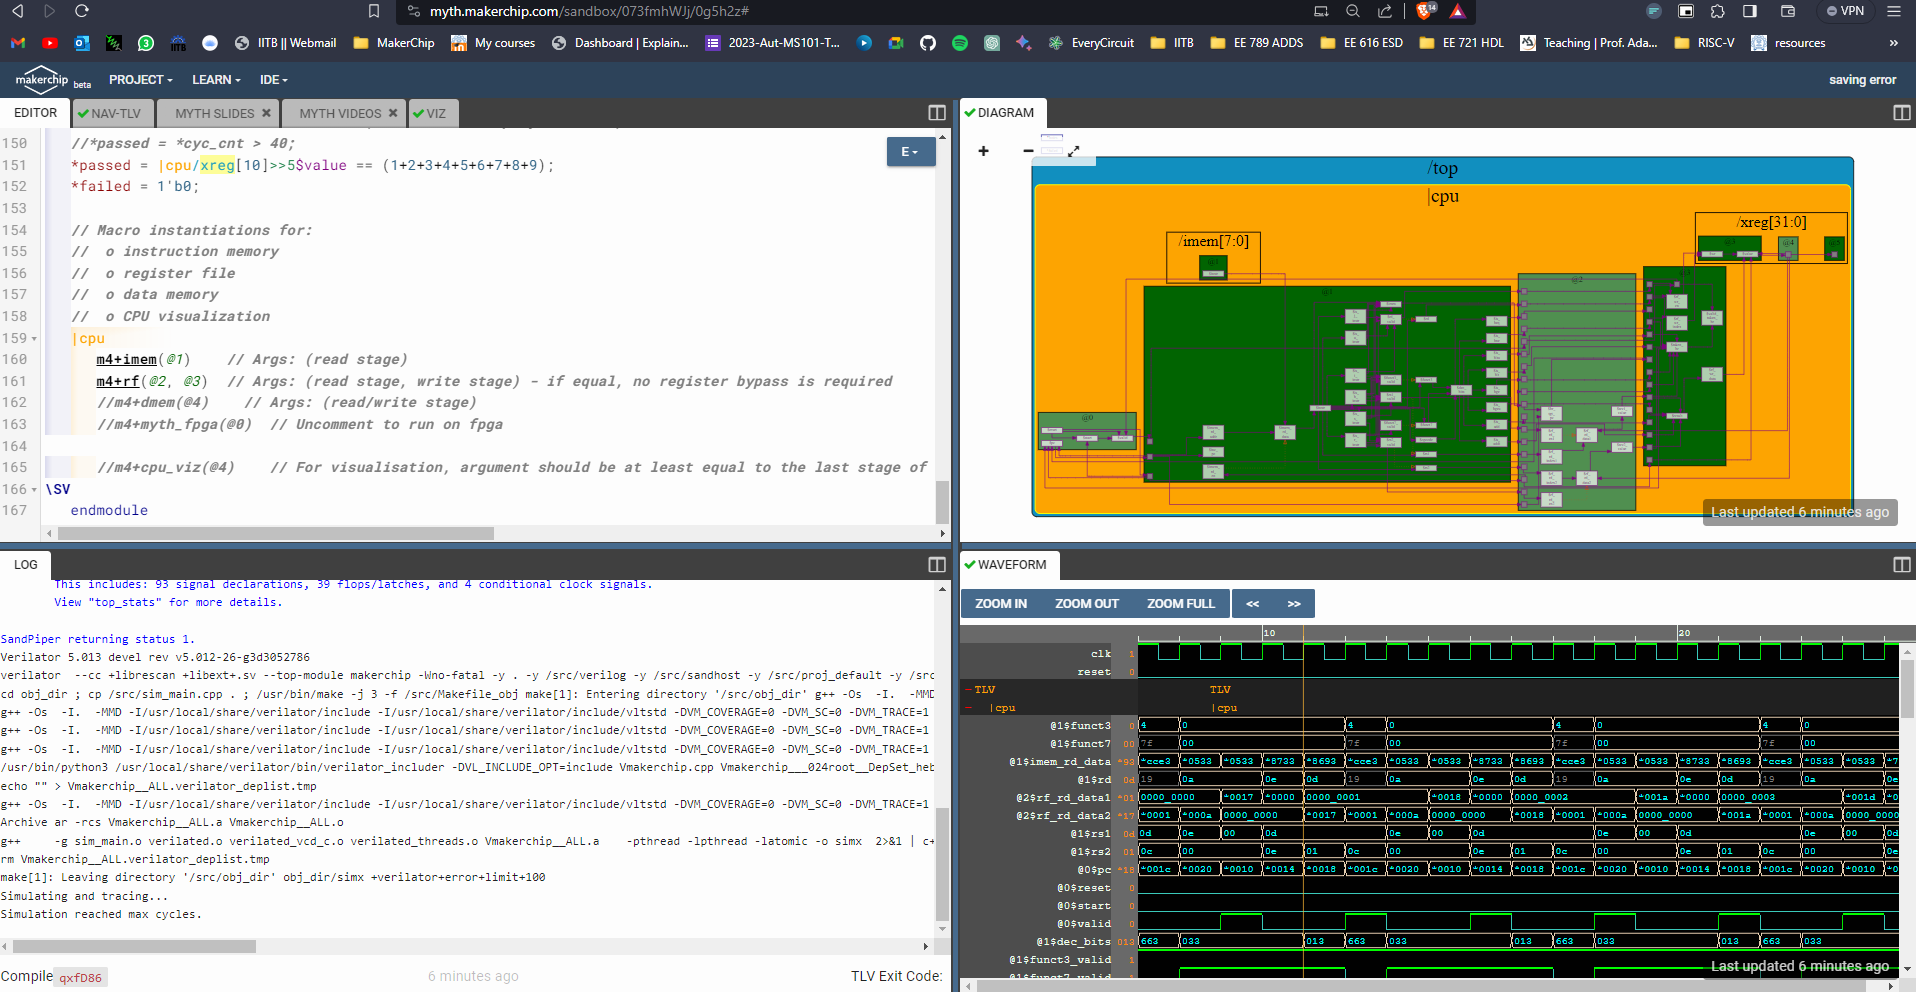
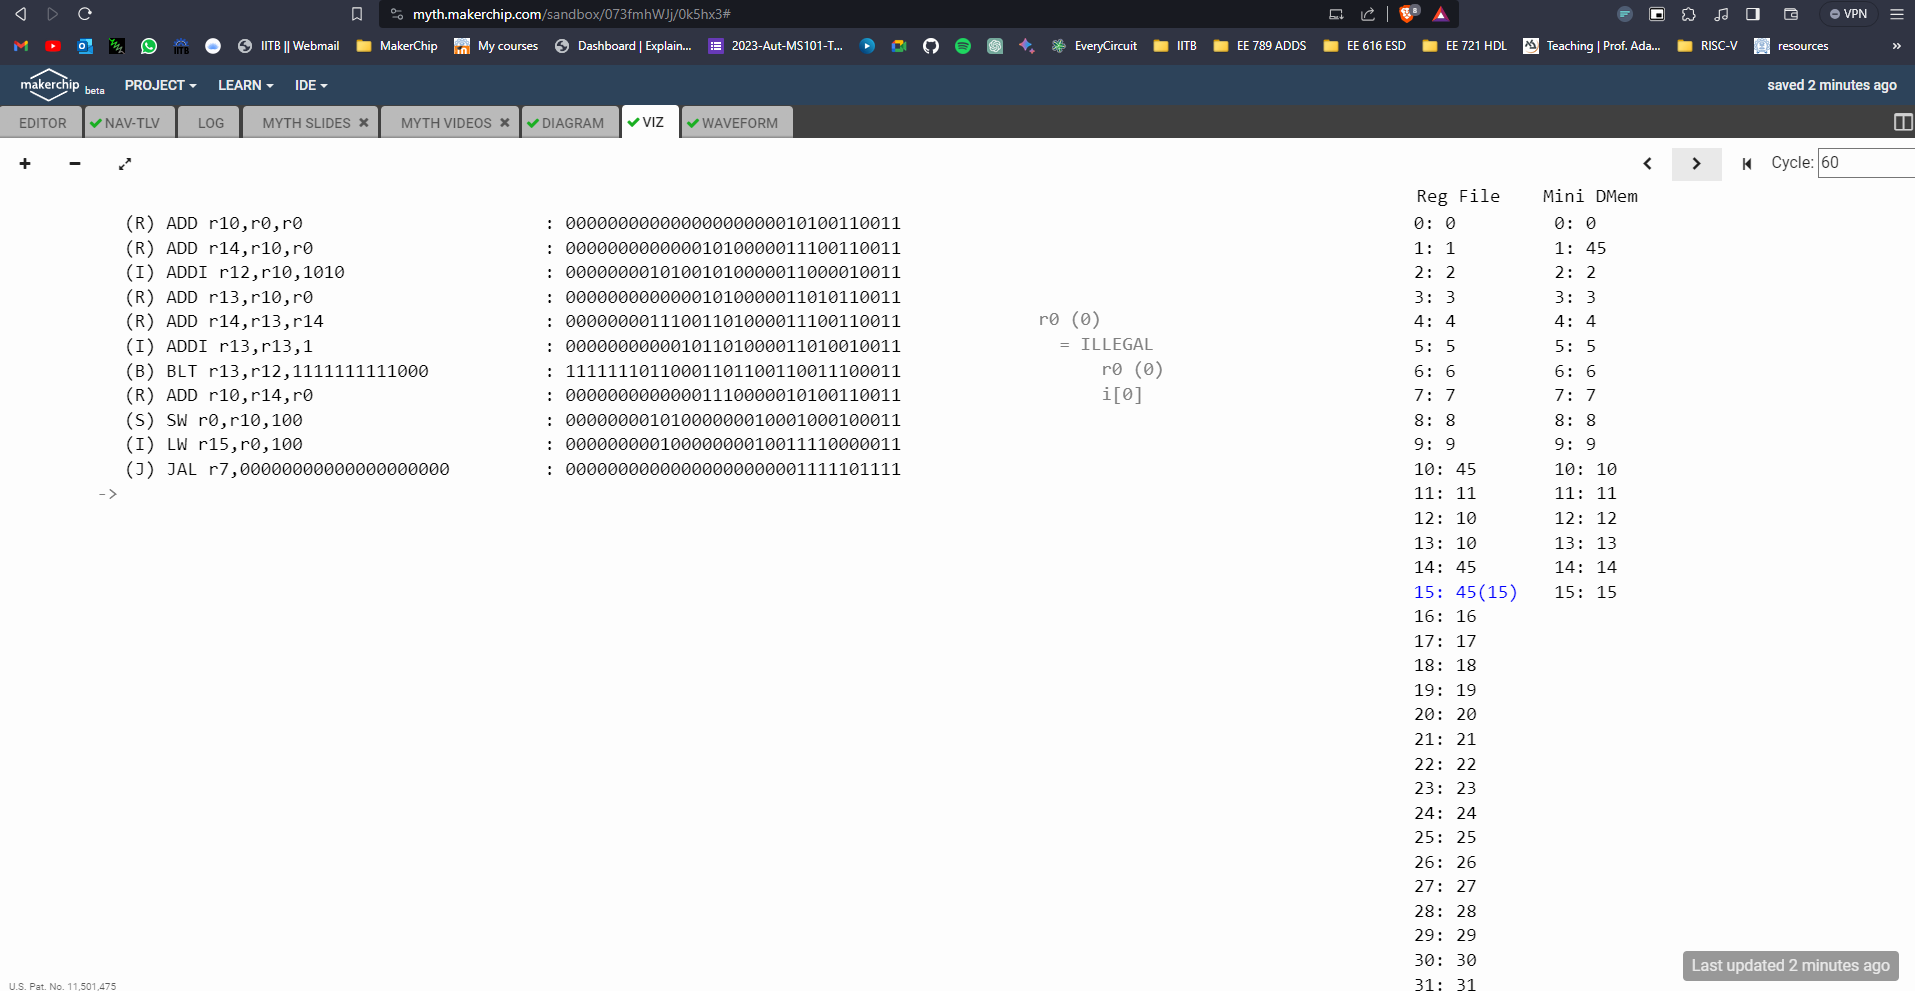
complete CPU

diff --git a/Day3_5/Day-5 Complete Pipelined RISC-V CPU micro-architec d84dd0c4334a4724bfdb940da5cf7195.md b/Day3_5/Day-5 Complete Pipelined RISC-V CPU micro-architec d84dd0c4334a4724bfdb940da5cf7195.md
@@ -1,9 +1,9 @@
 # Day-5 Complete Pipelined RISC-V CPU micro-architecture
 
 Related Course(s): RISC-V Myth (https://www.notion.so/RISC-V-Myth-e52fd09cf2c142c9881dc05a0b7003a2?pvs=21)
-Date Last Edited: September 24, 2023 10:02 PM
+Date Last Edited: September 26, 2023 7:27 PM
 
-# Pipelined CPU
+# Complete RISC-V CPU
 
 ```verilog
 \m4_TLV_version 1d: tl-x.org
@@ -28,6 +28,7 @@ Date Last Edited: September 24, 2023 10:02 PM
    //  r12 (a2): 10
    //  r13 (a3): 1..10
    //  r14 (a4): Sum
+   //  r15 (a5): stored/loaded Sum
    // 
    // External to function:
    m4_asm(ADD, r10, r0, r0)             // Initialize r10 (a0) to 0.
@@ -40,124 +41,205 @@ Date Last Edited: September 24, 2023 10:02 PM
    m4_asm(ADDI, r13, r13, 1)            // Increment intermediate register by 1
    m4_asm(BLT, r13, r12, 1111111111000) // If a3 is less than a2, branch to label named <loop>
    m4_asm(ADD, r10, r14, r0)            // Store final result to register a0 so that it can be read by main program
-   
+   // Store/Load
+   m4_asm(SW, r0, r10, 100)             // Store final result in data memory at address 'b100 (4)
+   m4_asm(LW, r15, r0, 100)             // Load final result into a5
    // Optional:
-   // m4_asm(JAL, r7, 00000000000000000000) // Done. Jump to itself (infinite loop). (Up to 20-bit signed immediate plus implicit 0 bit (unlike JALR) provides byte address; last immediate bit should also be 0)
+   m4_asm(JAL, r7, 00000000000000000000) // Done. Jump to itself (infinite loop). (Up to 20-bit signed immediate plus implicit 0 bit (unlike JALR) provides byte address; last immediate bit should also be 0)
    m4_define_hier(['M4_IMEM'], M4_NUM_INSTRS)
 
    |cpu
       @0
          $reset = *reset;
-         $pc[31:0] = >>1$reset ? 32'd0 : 
-            >>3$taken_br ? >>3$br_tgt_pc :
-            (>>3$pc + 32'd4);
-         $start = (>>1$reset && $reset == 0) ? 1'b1 : 1'b0;
-         $valid = $reset ? 1'b0 : 
-                  $start ? 1'b1 : >>3$valid;
-      
-      @1
-         $inc_pc[31:0] = $pc + 32'd4;
+         $start = !$reset & >>1$reset;
          
-         $imem_rd_en = !>>1$reset ? 1 : 0;
-         $imem_rd_addr[31:0] = $pc[M4_IMEM_INDEX_CNT+1:2];
+         // program counter
+         $pc[31:0] = >>1$reset ? 0 :
+                     >>3$valid_taken_br ? >>3$br_tgt_pc :
+                     >>3$valid_jump     ? >>3$jalr_tgt_pc :
+                     >>3$valid_load     ? >>3$pc + 4 :
+                     >>1$pc + 4;
+         
+         // instruction memory read inputs
+         $imem_rd_en = !$reset;
+         $imem_rd_addr[M4_IMEM_INDEX_CNT-1:0] = $pc[M4_IMEM_INDEX_CNT+1:2];
+         
+      @1
+         // instruction
          $instr[31:0] = $imem_rd_data[31:0];
          
-         //Decoding Instructions IRSBJU
-         
+         // instruction type decode (I, R, S, B, J, U)
          $is_i_instr = $instr[6:2] ==? 5'b0000x ||
                        $instr[6:2] ==? 5'b001x0 ||
-                       $instr[6:2] == 5'b11001;
+                       $instr[6:2] ==  5'b11001;
          
-         $is_r_instr = $instr[6:2] ==? 5'b01x1x ||
-                       $instr[6:2] ==? 5'bxx100;
+         $is_r_instr = $instr[6:2] ==  5'b01011 ||
+                       $instr[6:2] ==? 5'b011x0 ||
+                       $instr[6:2] ==  5'b10100;
          
-         $is_b_instr = $instr[6:2] == 5'b11000;
-         $is_u_instr = $instr[6:2] == 5'b0x101;
-         $is_s_instr = $instr[6:2] == 5'b0100x;
-         $is_j_instr = $instr[6:2] == 5'b11011;
+         $is_s_instr = $instr[6:2] ==? 5'b0100x;
          
-         //Decoding Immediate
-         $imm[31:0] = $is_i_instr ? { {21{$instr[31]}} , $instr[30:20] } :
-                   $is_s_instr ? { {21{$instr[31]}} , $instr[30:25] , $instr[11:8] , $instr[7] } :
-                   $is_b_instr ? { {20{$instr[31]}} , $instr[7] , $instr[30:25] , $instr[11:8] , 1'b0} :
-                   $is_u_instr ? { $instr[31] , $instr[30:20] , $instr[19:12] , 12'b0} : 
-                   $is_j_instr ? { {12{$instr[31]}} , $instr[19:12] , $instr[20] , $instr[30:21] , 1'b0} : 32'b0;
+         $is_b_instr = $instr[6:2] ==  5'b11000;
          
-         //Other fields of Instruction with a when condition
-         $rs2_valid = $is_r_instr || $is_s_instr || $is_b_instr;
-         $rs1_valid = $is_r_instr || $is_i_instr || $is_s_instr || $is_b_instr;
-         $rd_valid = $is_r_instr || $is_i_instr || $is_u_instr || $is_j_instr;
+         $is_j_instr = $instr[6:2] ==  5'b11011;
+         
+         $is_u_instr = $instr[6:2] ==? 5'b0x101;
+         
+         // instruction decode
+         $imm[31:0] = $is_i_instr ? {{21{$instr[31]}}, $instr[30:20]} :
+                      $is_s_instr ? {{21{$instr[31]}}, $instr[30:25], $instr[11:7]} :
+                      $is_b_instr ? {{20{$instr[31]}}, $instr[7], $instr[30:25], $instr[11:8], 1'b0} :
+                      $is_u_instr ? {$instr[31:12], 12'b0} :
+                      $is_j_instr ? {{12{$instr[31]}}, $instr[19:12], $instr[20], $instr[30:25], $instr[24:21], 1'b0} :
+                                    0;
+         
          $funct7_valid = $is_r_instr;
-         $funct3_valid = $is_r_instr || $is_i_instr || $is_s_instr || $is_b_instr;
-         
-         ?$rs2_valid
-            $rs2[4:0] = $instr[24:20];
-         ?$rs1_valid
-            $rs1[4:0] = $instr[19:15];
-         ?$rd_valid
-            $rd[4:0] = $instr[11:7];
-         $opcode[6:0] = $instr[6:0];
          ?$funct7_valid
             $funct7[6:0] = $instr[31:25];
+         
+         $rs2_valid = $is_r_instr || $is_s_instr || $is_b_instr;
+         ?$rs2_valid
+            $rs2[4:0] = $instr[24:20];
+         
+         $rs1_valid = $is_i_instr || $is_r_instr || $is_s_instr || $is_b_instr;
+         ?$rs1_valid
+            $rs1[4:0] = $instr[19:15];
+         
+         $funct3_valid = $is_i_instr || $is_r_instr || $is_s_instr || $is_b_instr;
          ?$funct3_valid
             $funct3[2:0] = $instr[14:12];
-            
-         //decode individual instructions
-         $dec_bits[10:0] = {$funct7[5],$funct3,$opcode};
-         $is_beq = $dec_bits ==? 11'bx_000_1100011;
-         $is_bne = $dec_bits ==? 11'bx_001_1100011;
-         $is_blt = $dec_bits ==? 11'bx_100_1100011;
-         $is_bge = $dec_bits ==? 11'bx_101_1100011;
-         $is_bltu = $dec_bits ==? 11'bx_110_1100011;
-         $is_bgeu = $dec_bits ==? 11'bx_111_1100011;
-         $is_addi = $dec_bits ==? 11'bx_000_0010011;
-         $is_add = $dec_bits ==? 11'b0_000_0110011;
          
-         `BOGUS_USE($is_beq $is_bne $is_blt $is_bge $is_bltu $is_bgeu $is_addi $is_add)
-      @2   
-         //Register File Read
+         $rd_valid = $is_i_instr || $is_r_instr || $is_u_instr || $is_j_instr;
+         ?$rd_valid
+            $rd[4:0] = $instr[11:7];
+         
+         $opcode[6:0] = $instr[6:0];
+         
+         // individual instruction decode
+         $dec_bits[10:0] = {$funct7[5], $funct3, $opcode};
+         
+         $is_lui   = $opcode   ==         7'b0110111;
+         $is_auipc = $opcode   ==         7'b0010111;
+         $is_jal   = $opcode   ==         7'b1101111;
+         $is_jalr  = $dec_bits ==? 11'bx_000_1100111;
+         $is_beq   = $dec_bits ==? 11'bx_000_1100011;
+         $is_bne   = $dec_bits ==? 11'bx_001_1100011;
+         $is_blt   = $dec_bits ==? 11'bx_100_1100011;
+         $is_bge   = $dec_bits ==? 11'bx_101_1100011;
+         $is_bltu  = $dec_bits ==? 11'bx_110_1100011;
+         $is_bgeu  = $dec_bits ==? 11'bx_111_1100011;
+         $is_load  = $opcode   ==         7'b0000011;
+         $is_sb    = $dec_bits ==? 11'bx_000_0100011;
+         $is_sh    = $dec_bits ==? 11'bx_001_0100011;
+         $is_sw    = $dec_bits ==? 11'bx_010_0100011;
+         $is_addi  = $dec_bits ==? 11'bx_000_0010011;
+         $is_slti  = $dec_bits ==? 11'bx_010_0010011;
+         $is_sltiu = $dec_bits ==? 11'bx_011_0010011;
+         $is_xori  = $dec_bits ==? 11'bx_100_0010011;
+         $is_ori   = $dec_bits ==? 11'bx_110_0010011;
+         $is_andi  = $dec_bits ==? 11'bx_111_0010011;
+         $is_slli  = $dec_bits ==  11'b0_001_0010011;
+         $is_srli  = $dec_bits ==  11'b0_101_0010011;
+         $is_srai  = $dec_bits ==  11'b1_101_0010011;
+         $is_add   = $dec_bits ==  11'b0_000_0110011;
+         $is_sub   = $dec_bits ==  11'b1_000_0110011;
+         $is_sll   = $dec_bits ==  11'b0_001_0110011;
+         $is_slt   = $dec_bits ==  11'b0_010_0110011;
+         $is_sltu  = $dec_bits ==  11'b0_011_0110011;
+         $is_xor   = $dec_bits ==  11'b0_100_0110011;
+         $is_srl   = $dec_bits ==  11'b0_101_0110011;
+         $is_sra   = $dec_bits ==  11'b1_101_0110011;
+         $is_or    = $dec_bits ==  11'b0_110_0110011;
+         $is_and   = $dec_bits ==  11'b0_111_0110011;
+         
+      @2
+         // register file read
          $rf_rd_en1 = $rs1_valid;
-         $rf_rd_en2 = $rs2_valid;
          $rf_rd_index1[4:0] = $rs1;
+         $rf_rd_en2 = $rs2_valid;
          $rf_rd_index2[4:0] = $rs2;
+         $src1_value[31:0] = (>>1$rf_wr_en && $rs1 == >>1$rd) ? >>1$result : $rf_rd_data1;
+         $src2_value[31:0] = (>>1$rf_wr_en && $rs2 == >>1$rd) ? >>1$result : $rf_rd_data2;
          
-         $src1_value[31:0] = $rf_rd_data1;
-         $src2_value[31:0] = $rf_rd_data2;
-         $br_tgt_pc[31:0] = $pc + $imm;
-      
+         // branch and jump instructions
+         $taken_br = $is_jal  ? 1'b1 :
+                     $is_beq  ? ($src1_value == $src2_value) :
+                     $is_bne  ? ($src1_value != $src2_value) :
+                     $is_blt  ? ($src1_value <  $src2_value) ^ ($src1_value[31] != $src2_value[31]) :
+                     $is_bge  ? ($src1_value >= $src2_value) ^ ($src1_value[31] != $src2_value[31]) :
+                     $is_bltu ? ($src1_value <  $src2_value) :
+                     $is_bgeu ? ($src1_value >= $src2_value) :
+                                1'b0;
+         $is_jump = $is_jal || $is_jalr;
+         
       @3
-         //ALU operations for ADDI and ADD
-         $result[31:0] = $is_addi ? $src1_value + $imm :
-                         $is_add ? $src1_value + $src2_value :
+         // valid based on previous 2 instructions
+         $valid = $reset ? 1'b0 :
+                  $start ? 1'b1 :
+                           !(>>2$valid_taken_br || >>1$valid_taken_br || >>2$valid_jump || >>1$valid_jump || >>2$valid_load || >>1$valid_load);
+         
+         // branch and jump valid and pc
+         $valid_taken_br = $valid && $taken_br;
+         $br_tgt_pc[31:0] = $pc + $imm;
+         $valid_jump = $valid && $is_jump;
+         $jalr_tgt_pc[31:0] = $src1_value + $imm;
+         
+         // data memory load valid
+         $valid_load = $valid && $is_load;
+         
+         // ALU
+         $sltiu_result[31:0] = $src1_value < $imm;
+         $sltu_result[31:0]  = $src1_value < $src2_value;
+         $result[31:0] = $is_lui   ? {$imm[31:12], 12'b0} :
+                         $is_auipc ? $pc + $imm :
+                         $is_jal   ? $pc + 4 :
+                         $is_jalr  ? $pc + 4 :
+                         $is_load || $is_s_instr ? $src1_value + $imm :
+                         $is_addi  ? $src1_value + $imm :
+                         $is_slti  ? ($src1_value[31] == $imm[31] ? $sltiu_result : {31'b0, $src1_value[31]}) :
+                         $is_sltiu ? $sltiu_result :
+                         $is_xori  ? $src1_value ^ $imm :
+                         $is_ori   ? $src1_value | $imm :
+                         $is_andi  ? $src1_value & $imm :
+                         $is_slli  ? $src1_value << $imm[5:0] :
+                         $is_srli  ? $src1_value >> $imm[5:0] :
+                         $is_srai  ? {{32{$src1_value[31]}}, $src1_value} >> $imm[4:0] :
+                         $is_add   ? $src1_value + $src2_value :
+                         $is_sub   ? $src1_value - $src2_value :
+                         $is_sll   ? $src1_value << $src2_value[4:0] :
+                         $is_slt   ? ($src1_value[31] == $src2_value[31] ? $sltu_result : {31'b0, $src1_value[31]}) :
+                         $is_sltu  ? $sltu_result :
+                         $is_xor   ? $src1_value ^ $src2_value :
+                         $is_srl   ? $src1_value >> $src2_value[4:0] :
+                         $is_sra   ? {{32{$src1_value[31]}}, $src1_value} >> $src2_value[4:0] :
+                         $is_or    ? $src1_value | $src2_value :
+                         $is_and   ? $src1_value & $src2_value :
                          32'bx;
          
-         //Register File Write
-         $rf_wr_en =  $rd_valid && ($rd != 5'b0);
-         $rf_wr_index[4:0] = $rd;
-         $rf_wr_data[31:0] = $result;
+         // register file write
+         $rf_wr_en = (>>2$valid_load) || ($valid && $rd_valid && ($rd != 5'b0) && !$is_load);
+         $rf_wr_index[4:0] = $valid ? $rd     : >>2$rd;
+         $rf_wr_data[31:0] = $valid ? $result : >>2$ld_data;
          
-         //Branch Instructions
-         $taken_br = $is_beq ? ($src1_value == $src2_value) :
-            $is_bne ? ($src1_value != $src2_value) :
-            $is_blt ? (($src1_value < $src2_value)^($src1_value[31] != $src2_value[31])) :
-            $is_bge ? (($src1_value >= $src2_value)^($src1_value[31] != $src2_value[31])) :
-            $is_bltu ? ($src1_value < $src2_value) :
-            $is_bgeu ? ($src1_value >= $src2_value) :
-            1'b0;
+         // data memory inputs
+         $dmem_addr[3:0] = $result[5:2];
+         $dmem_wr_en = $is_s_instr;
+         $dmem_wr_data[31:0] = $src2_value;
+         $dmem_rd_en = $valid_load;
+         $dmem_rd_index[5:0] = $src2_value[5:0];
+         `BOGUS_USE($dmem_rd_index)
          
-         $valid_taken_br = $valid && $taken_br;
-         //$br_tgt_pc[31:0] = $pc + $imm;
-    
+      @5
+         // data memory output
+         $ld_data[31:0] = $dmem_rd_data;
          
       // Note: Because of the magic we are using for visualisation, if visualisation is enabled below,
       //       be sure to avoid having unassigned signals (which you might be using for random inputs)
       //       other than those specifically expected in the labs. You'll get strange errors for these.
-
    
    // Assert these to end simulation (before Makerchip cycle limit).
-   //*passed = *cyc_cnt > 40;
-   *passed = |cpu/xreg[10]>>5$value == (1+2+3+4+5+6+7+8+9);
-   *failed = 1'b0;
+   *passed = |cpu/xreg[15]>>15$value == (1+2+3+4+5+6+7+8+9);
+   *failed = *cyc_cnt > 100;
    
    // Macro instantiations for:
    //  o instruction memory
@@ -167,14 +249,32 @@ Date Last Edited: September 24, 2023 10:02 PM
    |cpu
       m4+imem(@1)    // Args: (read stage)
       m4+rf(@2, @3)  // Args: (read stage, write stage) - if equal, no register bypass is required
-      //m4+dmem(@4)    // Args: (read/write stage)
-      //m4+myth_fpga(@0)  // Uncomment to run on fpga
-
-      //m4+cpu_viz(@4)    // For visualisation, argument should be at least equal to the last stage of CPU logic. @4 would work for all labs.
+      m4+dmem(@4)    // Args: (read/write stage)
+   
+   m4+cpu_viz(@4)    // For visualisation, argument should be at least equal to the last stage of CPU logic
+                       // @4 would work for all labs
 \SV
    endmodule
 ```
 
-[Makerchip](https://myth.makerchip.com/sandbox/073fmhWJj/0g5h2z#)
+Link to the project: 
+
+[Makerchip](https://myth.makerchip.com/sandbox/073fmhWJj/0k5hx3#)
+
+## Visualization
+
+On 56th cycle, the reg 10 has the value x2D or d45, which gets stored in to reg 15 after 4-clock cycles.
 
 ![Untitled](Day-5%20Complete%20Pipelined%20RISC-V%20CPU%20micro-architec%20d84dd0c4334a4724bfdb940da5cf7195/Untitled.png)
+
+![Untitled](Day-5%20Complete%20Pipelined%20RISC-V%20CPU%20micro-architec%20d84dd0c4334a4724bfdb940da5cf7195/Untitled%201.png)
+
+## Diagram
+
+![Untitled](Day-5%20Complete%20Pipelined%20RISC-V%20CPU%20micro-architec%20d84dd0c4334a4724bfdb940da5cf7195/Untitled%202.png)
+
+## Waveforms
+
+![Untitled](Day-5%20Complete%20Pipelined%20RISC-V%20CPU%20micro-architec%20d84dd0c4334a4724bfdb940da5cf7195/Untitled%203.png)
+
+![Untitled](Day-5%20Complete%20Pipelined%20RISC-V%20CPU%20micro-architec%20d84dd0c4334a4724bfdb940da5cf7195/Untitled%204.png)
